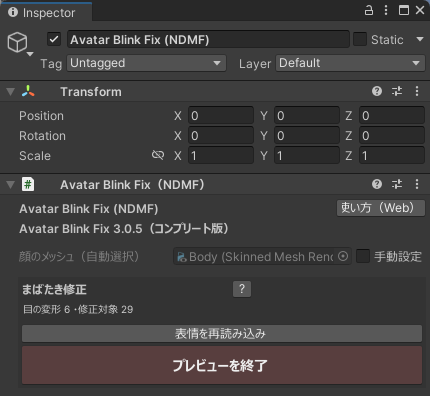
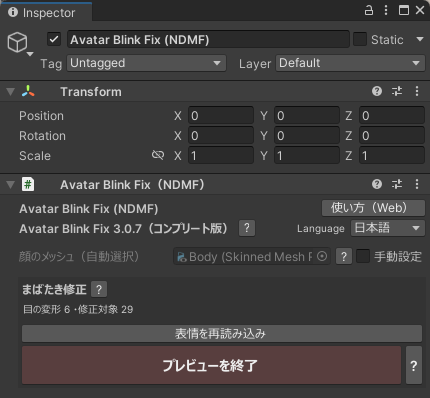
2.xへ戻す手順を安全な順番にそろえ、古くなった画面写真を差し替える
- from-2x / FAQ: 2.xへ戻す手順を、ツール側の同梱READMEと同じ安全な順番へ（74e979c 準拠）。
  「3.0が入っているうちにアバター直下のABF用子オブジェクトを消す」を第1手順に足し、
  「3.0を残したまま2.xを入れない（コンパイルが止まる）」を警告として明示。
  残すものに json と解除キーを追加
- FAQ「対応アバターなのにプリセットが無い」に、対応アバター一覧（BOOTH）への導線を追加。
  一覧はドキュメントには置かず、BOOTHへ誘導する方針（2026-08-30 本人判断）
- 画面写真を撮り直し: easy-normal と meshswap-window（版表記 3.0.5 → 3.0.7）、
  unlock-dialog（「アンロックされました」→「コンプリート版になりました」・ツール a9b2d32 の短縮に追随）
- 英語版 changelog 3.0.5 に抜けていた手動修正の行を補完

diff --git a/docs/guide/from-2x.md b/docs/guide/from-2x.md
@@ -84,8 +84,15 @@
 
 ## 2.x へ戻したくなったら
 
-1. **Unity を閉じる**
-2. VCC / ALCOM の Manage Project から、Avatar Blink Fix 3.0 を削除する
-3. Unityでプロジェクトを開き、[Avatar Blink Fix の販売ページ（BOOTH）](https://lemoneru.booth.pm/items/7074770)にある **2.x 最終版のunitypackage**をインポートする
+::: warning 3.0 を残したまま 2.x を入れないでください
+同じ名前のクラスやアセンブリが二重になり、Unity のコンパイルが止まることがあります。**3.0 を先に外してください。**
+:::
 
-`Data`・`Animation` はそのまま残してください（2.x の修正の記録です）。3.0 の解除キーを入れてあっても、2.x の動作には影響しません。
+1. **3.0 が入っているうちに**、アバター直下に 3.0 が追加した子オブジェクトがあれば削除し、シーン／Prefab を保存する
+   （標準の名前は「Avatar Blink Fix (NDMF)」「Avatar Blink Fix (NDMF・トライアル)」「Avatar Blink Fix (Bake)」です。先に消しておかないと、外したあとに Missing Script が残ります）
+2. **Unity を閉じる**
+3. VCC / ALCOM の Manage Project から、Avatar Blink Fix 3.0 を**先に**外す
+4. Unity を開き、[Avatar Blink Fix の販売ページ（BOOTH）](https://lemoneru.booth.pm/items/7074770)にある **2.x 最終版のunitypackage**をインポートする
+5. `Data`・`Animation`・`json`・解除キーは、そのまま残して大丈夫です
+
+`Data`・`Animation` は 2.x の修正の記録です。3.0 の解除キーを入れてあっても、2.x の動作には影響しません。

diff --git a/docs/faq.md b/docs/faq.md
@@ -111,6 +111,8 @@ BlendShape の値を変えて改変したら、そのあとで「表情を再読
 - **unitypackage で導入している場合**: 商品ページから最新版をダウンロードし、インポートし直してください
 - アバター側のアップデートでプリセットが合わなくなっていることもあります。[手動修正](/guide/manual-fix)でも対応できますし、[ご連絡](#contact)いただければプリセットの更新を検討します
 
+対応アバターの一覧は [Avatar Blink Fix の販売ページ（BOOTH）](https://lemoneru.booth.pm/items/7074770)にあります。
+
 </details>
 
 <details id="avatar-updated">
@@ -137,7 +139,9 @@ BlendShape の値を変えて改変したら、そのあとで「表情を再読
 <summary>2.x へ戻したくなったら</summary>
 
 手順は [2.x をお使いの方へ: 2.x へ戻したくなったら](/guide/from-2x#_2-x-へ戻したくなったら) にまとめてあります。
-ポイントは、`Data`・`Animation` をそのまま残すこと（2.x の修正の記録です）。3.0 の解除キーを入れてあっても、2.x の動作には影響しません。
+
+⚠ **3.0 を残したまま 2.x を入れないでください**（コンパイルが止まることがあります）。**3.0 が入っているうちにアバター直下のABF用の子オブジェクトを消し、3.0 を外してから** 2.x を入れます。
+`Data`・`Animation`・`json`・解除キーは、そのまま残して大丈夫です。
 
 </details>
 

diff --git a/docs/en/guide/from-2x.md b/docs/en/guide/from-2x.md
@@ -84,8 +84,15 @@ Bake mode bakes your edited expression into the mesh before fixing. It may reduc
 
 ## Going back to 2.x
 
-1. **Close Unity**
-2. In VCC / ALCOM's Manage Project, remove Avatar Blink Fix 3.0
-3. Open the project in Unity and import the **final 2.x unitypackage** from the [Avatar Blink Fix page on BOOTH](https://lemoneru.booth.pm/items/7074770)
+::: warning Don't install 2.x while 3.0 is still present
+Duplicate classes and assemblies can stop Unity from compiling. **Remove 3.0 first.**
+:::
 
-Leave `Data` and `Animation` in place (they hold your 2.x fix records). A 3.0 unlock key that's already imported doesn't affect 2.x in any way.
+1. **While 3.0 is still installed**, delete the child objects it added under your avatar, then save the scene/prefab
+   (default names: "Avatar Blink Fix (NDMF)", "Avatar Blink Fix (NDMF・トライアル)", "Avatar Blink Fix (Bake)". Removing them first avoids leftover Missing Scripts)
+2. **Close Unity**
+3. In VCC / ALCOM's Manage Project, remove Avatar Blink Fix 3.0 — **do this first**
+4. Open the project in Unity and import the **final 2.x unitypackage** from the [Avatar Blink Fix page on BOOTH](https://lemoneru.booth.pm/items/7074770)
+5. Leave `Data`, `Animation`, `json` and the unlock key in place
+
+`Data` and `Animation` hold your 2.x fix records. A 3.0 unlock key that's already imported doesn't affect 2.x in any way.

diff --git a/docs/en/faq.md b/docs/en/faq.md
@@ -111,6 +111,8 @@ Some avatars don't have a BlendShape it can target, so the trial can't run on th
 - **Installed via unitypackage**: download the latest version from the product page and re-import
 - An avatar-side update can also break the preset match. [Manual Fix](/en/guide/manual-fix) still works, and if you [contact us](#contact) we'll consider updating the preset
 
+The list of supported avatars is on the [Avatar Blink Fix page on BOOTH](https://lemoneru.booth.pm/items/7074770).
+
 </details>
 
 <details id="avatar-updated">
@@ -137,7 +139,9 @@ For a summary of what changed in 3.0 → [Coming from 2.x](/en/guide/from-2x)
 <summary>I want to go back to 2.x</summary>
 
 The steps are in [Coming from 2.x: Going back to 2.x](/en/guide/from-2x#going-back-to-2-x).
-The key point: leave `Data` and `Animation` in place (they hold your 2.x fix records). A 3.0 unlock key that's already imported doesn't affect 2.x in any way.
+
+⚠ **Don't install 2.x while 3.0 is still present** (Unity may stop compiling). **While 3.0 is still installed**, delete the ABF child objects under your avatar, then remove 3.0 before importing 2.x.
+Leave `Data`, `Animation`, `json` and the unlock key in place.
 
 </details>
 

diff --git a/docs/en/changelog.md b/docs/en/changelog.md
@@ -20,6 +20,7 @@ Installed via VCC / ALCOM? New versions are just the "Update" button — no need
 - Rebuilt the notice for leftover old versions around "**migration**" (one confirmation; the list of moved files goes to the Console)
 - Added a **[Docs (Web)]** button to the Inspector. The "Documentation" link in VCC / ALCOM now points to this site
 - Fixed the fix appearing unapplied right after reopening a project (upload results were never affected)
+- Made Manual Fix easier to use (BlendShapes used by your expression edits can no longer be picked as fix targets / the preview button works even with 0 targets / it now opens ready to edit)
 - Made Manual Fix easier to use (BlendShapes used by your expression can no longer be selected as fix targets / preview can be pressed with 0 items / opens ready to edit)
 
 ## 3.0.4 (2026-08-27)
